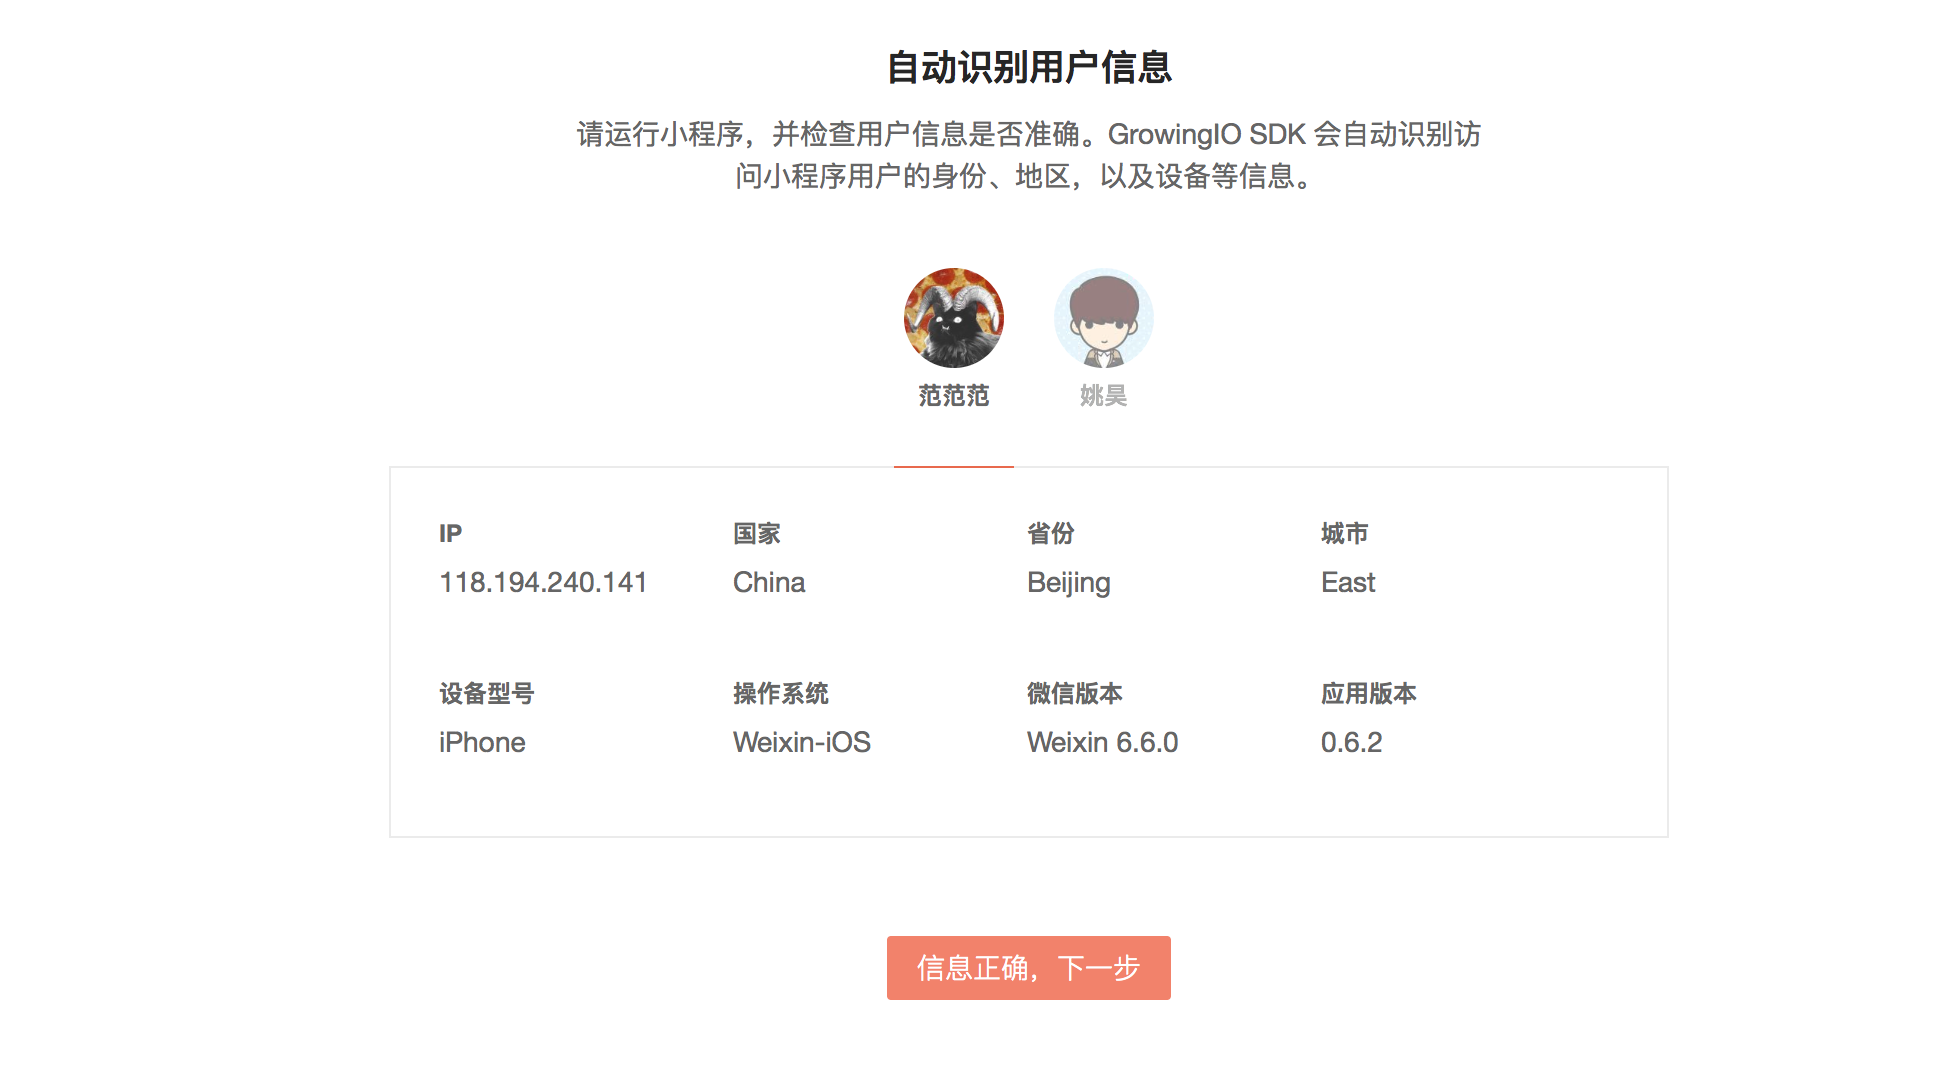
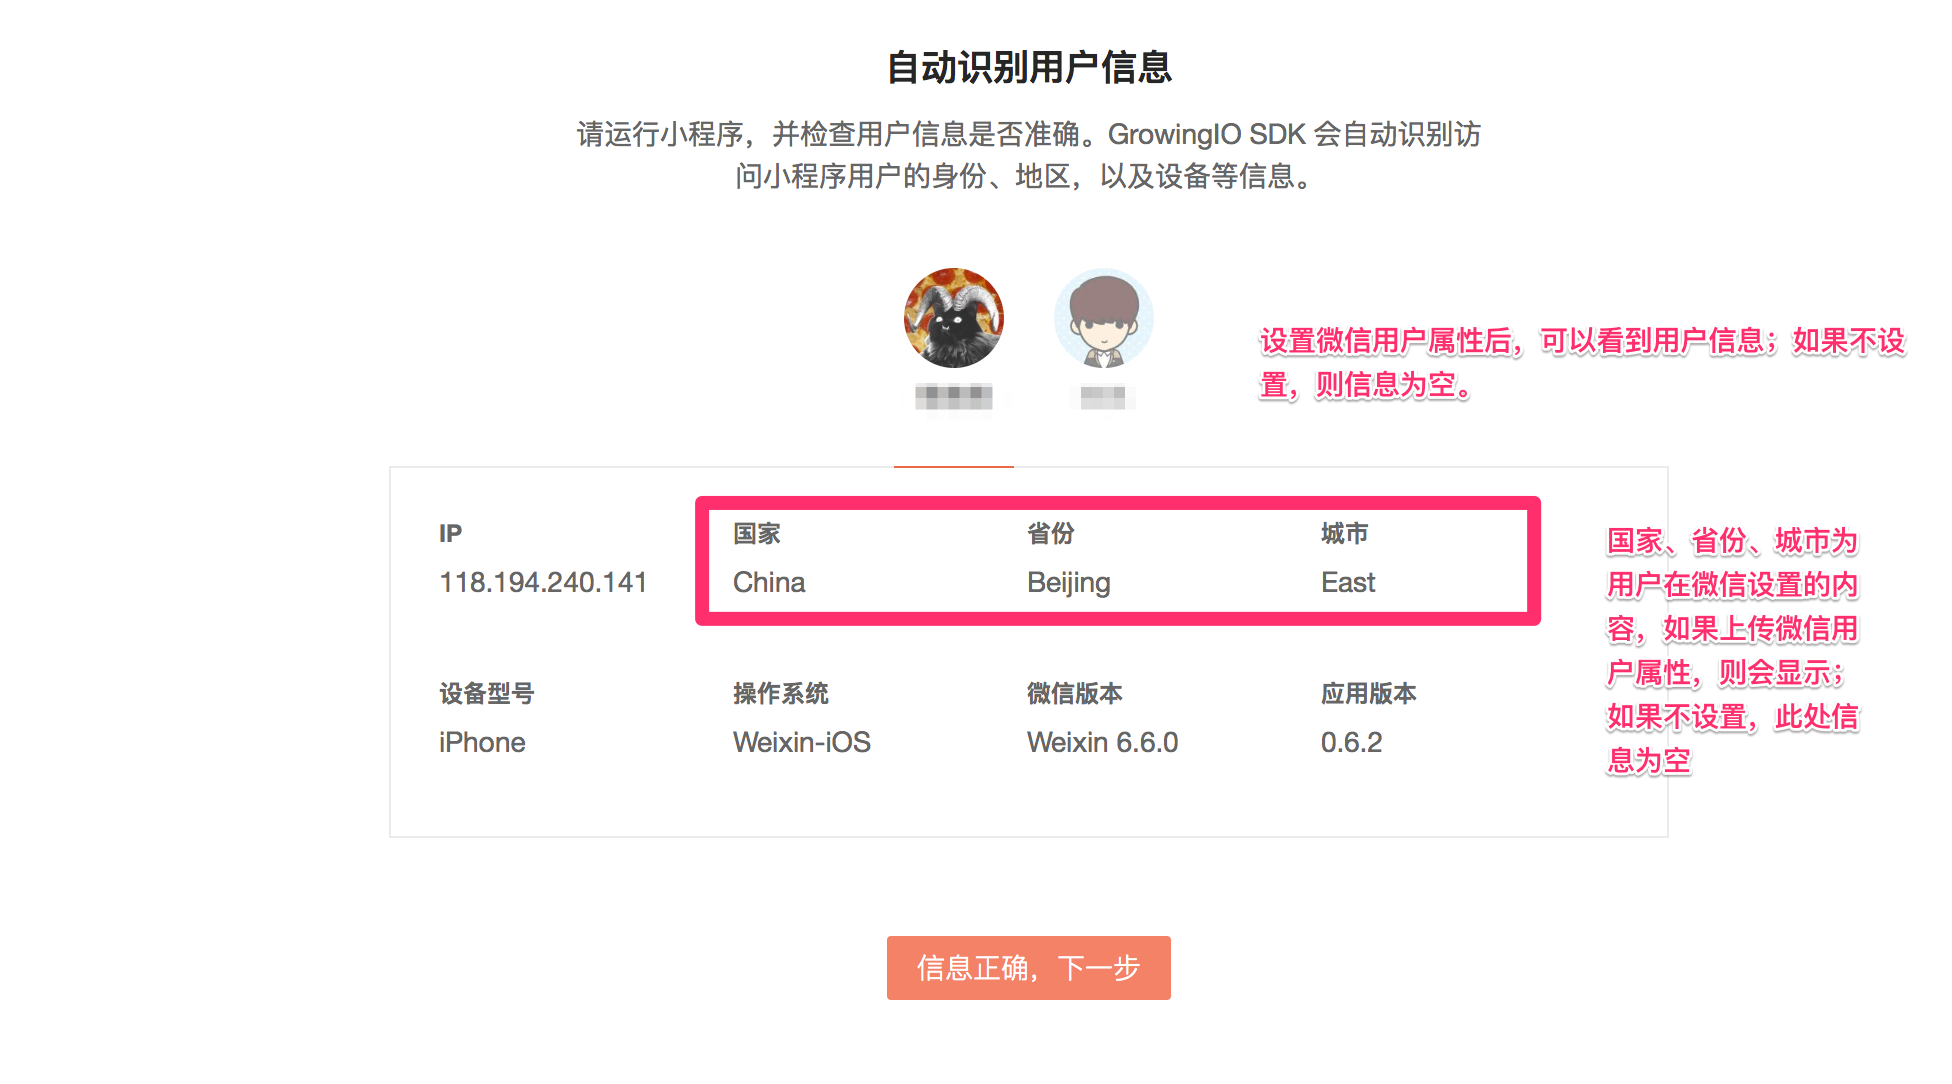
GitBook: [master] 2 pages and 7 assets modified

diff --git a/tag-management/xiao-cheng-xu-shu-ju-xiao-yan-debugger.md b/tag-management/xiao-cheng-xu-shu-ju-xiao-yan-debugger.md
@@ -4,17 +4,17 @@
 
 在完成SDK集成，点击“检测数据”，会跳转进入小程序Debugger的页面。
 
+另：在圈选功能左上部，有“实时调试”的按钮，点击后会进入相应小程序的debugger功能。
+
 进入Debugger页面后：
 
 1. 保证操作集成小程序SDK的手机和登录GrowingIO的电脑处在同一网络（WiFi）环境下。
 2. 打开微信，进入集成了小程序SDK的小程序中。
 3. 等待5秒左右，可以看到用户显示在页面中。
 
-![](../.gitbook/assets/image%20%2816%29.png)
+![](../.gitbook/assets/image%20%2819%29.png)
 
-在小程序Debugger页面，会展示目前接入Debugger实时传输数据的小程序用户，以及部分用户微信信息、设备、操作系统的信息。但是部分信息的展示，需要在SDK中设置微信用户属性设置。详情请见[SDK 微信用户属性设置](sdk-logic/wechat_user_attributes_setting.md)。
-
-![](../.gitbook/assets/image.png)
+在小程序Debugger页面，会展示目前接入Debugger实时传输数据的小程序用户，以及部分用户微信信息、设备、操作系统的信息。但是部分信息的展示，例如用户微信名称、头像、国家、省份、城市，需要在SDK中设置微信用户属性设置。详情请见[SDK 微信用户属性设置](sdk-logic/wechat_user_attributes_setting.md)。
 
 选择自己的用户头像，点击“下一步”，进入用户行为记录页面。
 

diff --git a/metric-definition/README.md b/metric-definition/README.md
@@ -1,5 +1,7 @@
 # 指标圈选定义
 
+### 事件定义
+
 在SDK 采集数据和逻辑一节中，我们介绍了小程序 SDK [无埋点采集事件](../tag-management/sdk-logic/autotrack.md)的逻辑，支持采集 visit、page、action 事件。针对无埋点采集的行为事件，为了后续能在分析功能如事件分析、漏斗分析、留存分析等中使用，同 Web 和移动的指标定义一样，GrowingIO 也提供了小程序指标圈选定义功能。使用小程序圈选定义指标，可以快速建立小程序上的指标体系，并以此构建分析体系，即时进行数据监测和分析。
 
 通过圈选定义的指标，分成两类：
@@ -11,5 +13,7 @@
 
 ![&#x5C0F;&#x7A0B;&#x5E8F;&#x5708;&#x9009;&#x5165;&#x53E3;](../.gitbook/assets/quan-xuan-ru-kou.png)
 
+### 实时调试
 
+不清楚关注页面的页面路径、按钮的函数名称？可以进入实时调试模式，根据交互操作，查看页面路径和点击元素的函数名称。详情请见[小程序数据校验Debugger](../tag-management/xiao-cheng-xu-shu-ju-xiao-yan-debugger.md)。
 
